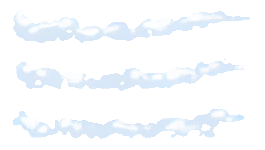
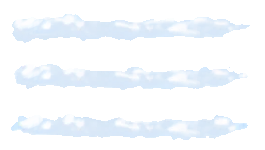
Improve white water effect

diff --git a/src/Network/Client/Object/Reloaded/Components/ZombieCustomPoolLogicNetworkComponent.cs b/src/Network/Client/Object/Reloaded/Components/ZombieCustomPoolLogicNetworkComponent.cs
@@ -38,9 +38,7 @@ internal class ZombieCustomPoolLogicNetworkComponent : ZombieNetworkComponent
             Net._Zombie.mController.SetImageOverride("whitewater", string.Empty);
         }
 
-        _whiteWaterEffect = WhiteWaterEffect.Create(Net._Zombie.mController, false);
-        _whiteWaterEffect.transform.localPosition = new(5f, 110f, 0f);
-        _whiteWaterEffect.transform.localScale = new(Net._Zombie.mZombieRect.width * 0.020f, 1f, 1f);
+        _whiteWaterEffect ??= WhiteWaterEffect.Create(Net._Zombie.mController, false);
     }
 
     internal override void Update()
@@ -83,10 +81,7 @@ internal class ZombieCustomPoolLogicNetworkComponent : ZombieNetworkComponent
             _inPool = false;
         }
 
-        _whiteWaterEffect?.gameObject.SetActive(_inPool &&
-            !zombie.mDead &&
-            zombie.mZombiePhase != ZombiePhase.RisingFromGrave &&
-            zombie.mAltitude < -35f);
+        UpdateWhiteWaterEffect();
 
         if (_inPool)
         {
@@ -103,6 +98,60 @@ internal class ZombieCustomPoolLogicNetworkComponent : ZombieNetworkComponent
                 }
             }
         }
+    }
+
+    private void UpdateWhiteWaterEffect()
+    {
+        if (_whiteWaterEffect == null) return;
+
+        var zombie = Net._Zombie;
+        var active = _inPool && !zombie.mDead && zombie.mZombiePhase != ZombiePhase.RisingFromGrave && zombie.mAltitude < -35f;
+        _whiteWaterEffect.gameObject.SetActive(active);
+
+        switch (Net.ZombieType)
+        {
+            case ZombieType.TrashCan:
+                if (Net._Zombie.mShieldType != ShieldType.None)
+                {
+                    _whiteWaterEffect.transform.localPosition = new(-15f, 110f, 0f);
+                    _whiteWaterEffect.transform.localScale = new(1.05f, 1f, 1f);
+                    return;
+                }
+                break;
+            case ZombieType.Door:
+                if (Net._Zombie.mShieldType != ShieldType.None)
+                {
+                    _whiteWaterEffect.transform.localPosition = new(-25f, 110f, 0f);
+                    _whiteWaterEffect.transform.localScale = new(1.1f, 1f, 1f);
+                    return;
+                }
+                break;
+            case ZombieType.Newspaper:
+                if (Net._Zombie.mShieldType != ShieldType.None)
+                {
+                    _whiteWaterEffect.transform.localPosition = new(-30f, 114f, 0f);
+                    _whiteWaterEffect.transform.localScale = new(1.2f, 1f, 1f);
+                }
+                else
+                {
+                    _whiteWaterEffect.transform.localPosition = new(-20f, 114f, 0f);
+                    _whiteWaterEffect.transform.localScale = new(1.1f, 1f, 1f);
+                }
+                return;
+            case ZombieType.JackInTheBox:
+                _whiteWaterEffect.transform.localPosition = new(-5.9f, 114f, 0f);
+                _whiteWaterEffect.transform.localScale = new(Net._Zombie.mZombieRect.width * 0.020f, 1f, 1f);
+                return;
+            case ZombieType.Football:
+                _whiteWaterEffect.transform.localPosition = new(0f, 105f, 0f);
+                _whiteWaterEffect.transform.localScale = new(1.25f, 1f, 1f);
+                return;
+            default:
+                break;
+        }
+
+        _whiteWaterEffect.transform.localPosition = new(5f, 110f, 0f);
+        _whiteWaterEffect.transform.localScale = new(Net._Zombie.mZombieRect.width * 0.020f, 1f, 1f);
     }
 
     private bool CanGoInWater()

diff --git a/src/MonoScripts/Modded/WhiteWaterEffect.cs b/src/MonoScripts/Modded/WhiteWaterEffect.cs
@@ -15,7 +15,7 @@ internal sealed class WhiteWaterEffect : MonoBehaviour
     private SpriteRenderer _spriteRenderer;
     private float _frameTimer;
     private int _currentFrame;
-    private int? sortingOrderOverride;
+    private int _sortingOrder;
 
     /// <summary>
     /// Creates a new WhiteWaterEffect instance in the scene as a child of the specified zombie controller's renderer.
@@ -30,7 +30,7 @@ internal sealed class WhiteWaterEffect : MonoBehaviour
         go.transform.localPosition = Vector3.zero;
         go.SetActive(active);
         var comp = go.AddComponent<WhiteWaterEffect>();
-        comp.sortingOrderOverride = -14400 + (250 * zombieController.m_zombie.mRow);
+        comp._sortingOrder = -14400 + (250 * zombieController.m_zombie.mRow);
         return comp;
     }
 
@@ -38,10 +38,7 @@ internal sealed class WhiteWaterEffect : MonoBehaviour
     {
         _sprites = ReplantedOnlineAssets.Sprites.WhiteWaterSpriteSheet.Sprites;
         _spriteRenderer = gameObject.AddComponent<SpriteRenderer>();
-        if (sortingOrderOverride != null)
-        {
-            _spriteRenderer.sortingOrder = sortingOrderOverride.Value;
-        }
+        _spriteRenderer.sortingOrder = _sortingOrder;
 
         if (_sprites != null && _sprites.Length > 0)
         {

diff --git a/src/Modules/Reloaded/Versus/SeedPacketDefinitions.cs b/src/Modules/Reloaded/Versus/SeedPacketDefinitions.cs
@@ -383,7 +383,6 @@ internal static class SeedPacketDefinitions
                     var whiteWaterEffect = WhiteWaterEffect.Create(zombie.mController, false);
                     whiteWaterEffect.transform.localPosition = new(15f, -5f, 0f);
                     whiteWaterEffect.transform.localScale = new(0.8f, 1f, 1f);
-                    whiteWaterEffect.transform.localEulerAngles = new(-0f, 0f, 356.1458f);
                     zombie.mController.StartCoroutine(CoroutineUtils.WaitForConditionWithTimeout(() => zombie.mZombiePhase != ZombiePhase.RisingFromGrave, 5f, () =>
                     {
                         whiteWaterEffect.gameObject.SetActive(true);